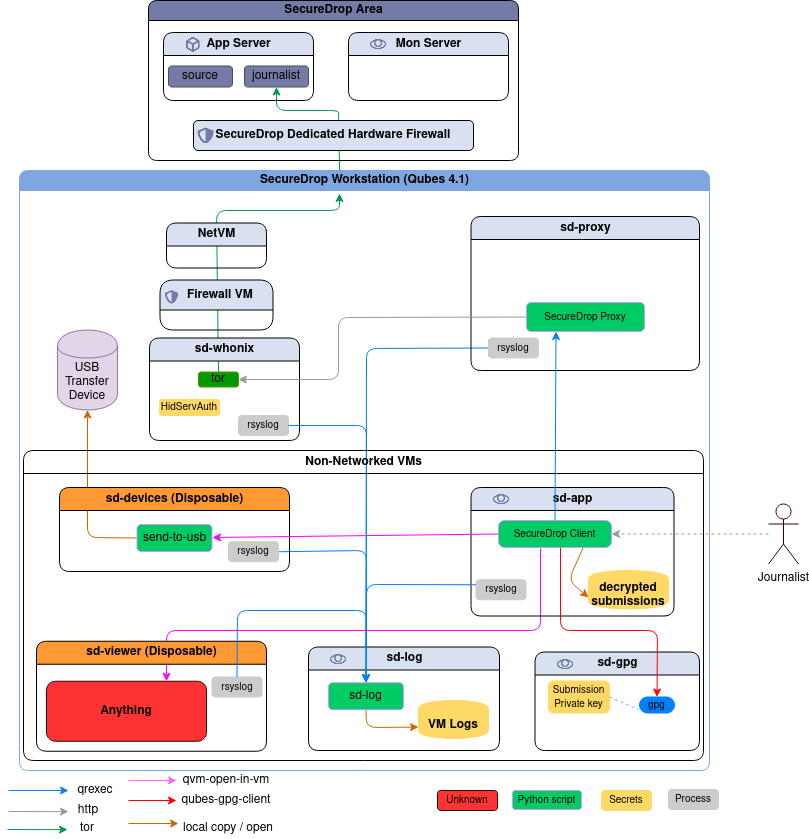
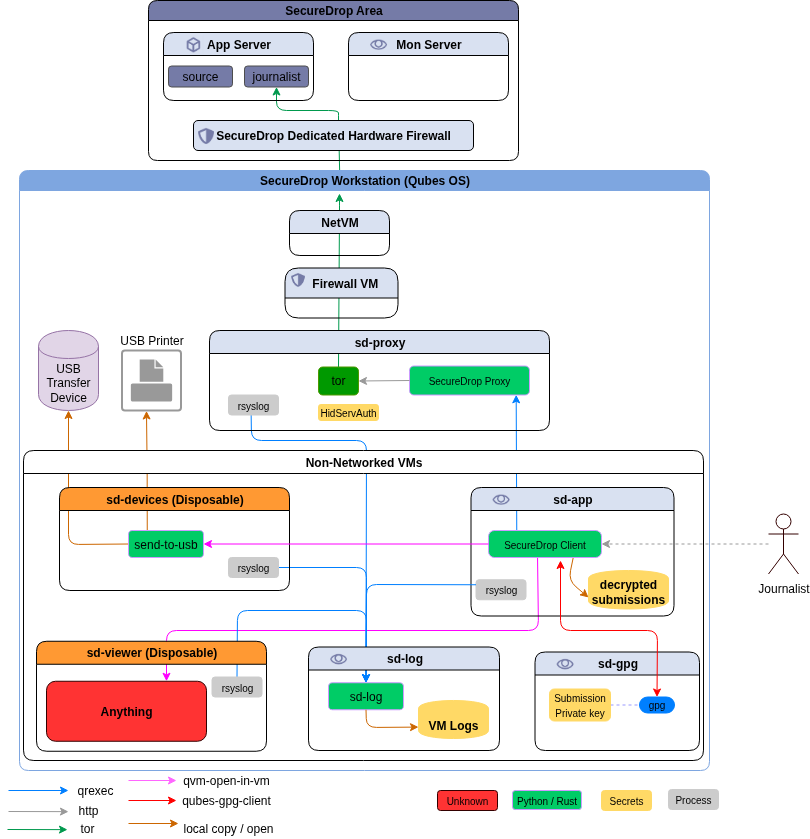
updated data flow diagram, updated README

diff --git a/README.md b/README.md
@@ -8,7 +8,7 @@
 
 This project aims to improve journalists' experience using SecureDrop, by moving the journalist workflow to a single computer running multiple virtual machines with [Qubes OS](https://qubes-os.org). Data is moved as automatically and transparently as possible between otherwise isolated VMs.
 
-We are currently piloting this project with a small number of news organizations; see [our blog post](https://securedrop.org/news/piloting-securedrop-workstation-qubes-os/) for additional information.
+We initially piloted this project with a small number of news organizations; see [our blog post](https://securedrop.org/news/piloting-securedrop-workstation-qubes-os/) for additional information. In July 2024, we transitioned SecureDrop Workstation to an open beta with [1.0.0 release](https://securedrop.org/news/securedrop-workstation-1_0_0-released/).
 
 1. [Detailed Rationale](#detailed-rationale)
 1. [Project Status](#project-status)
@@ -41,9 +41,9 @@ However, the Qubes OS approach is not without downsides. It stands and falls wit
 
 ## Project status
 
-We intend to bring the pilot program to a close in 2024, and move forward with general availability of SecureDrop Workstation following final updates based on the pilot participants' feedback and experience. The general availability version will be compatible with Qubes 4.2. Work is ongoing on 4.2 compatibility, and the mainline of this repo will be in flux and not suitable for production deployment until the work is completed and audited.
+SecureDrop Workstation is in open beta. We continue to move towards general availability of SecureDrop Workstation basd on users' feedback and experience. The current version is compatible with Qubes 4.2 and work is ongoing on 4.3 compatibility. The mainline of this repo will be in flux and not suitable for production deployment until the work is completed and audited.
 
-For now, if you want to preview SecureDrop Workstation's functionality we recommend following the installation instructions at [https://workstation.securedrop.org](https://workstation.securedrop.org), which will guide you through installing the latest stable version of SecureDrop Workstation on Qubes 4.1.
+For now, if you want to try SecureDrop Workstation's functionality we recommend following the installation instructions at [https://workstation.securedrop.org](https://workstation.securedrop.org), which will guide you through installing the latest stable version of SecureDrop Workstation on Qubes 4.2.
 
 ## Architecture
 
@@ -53,9 +53,8 @@ The current architecture replaces the *Journalist Workstation* and *Secure Viewi
 
 Currently, the following VMs are provisioned:
 
-- `sd-proxy` is where the SecureDrop proxy resides, which allows the non-networked `sd-app` vm to communicate with the *Journalist Interface* over Tor.
+- `sd-proxy` is where the SecureDrop proxy and the Tor gateway reside, which allows the non-networked `sd-app` vm to communicate with the *Journalist Interface* over Tor.
 - `sd-app` is a non-networked VM in which the *SecureDrop Client* runs used to store and explore submissions after they're unarchived and decrypted. Any files opened in this VM are opened in a disposable VM.
-- `sd-whonix` is the Tor gateway used to contact the journalist Tor hidden service. It's configured with the auth key for the hidden service. The default Qubes Whonix workstation uses the non-SecureDrop Whonix gateway, and thus won't be able to access the *Journalist Interface*.
 - `sd-gpg` is a Qubes split-gpg AppVM, used to hold submission decryption keys and do the actual submission crypto.
 - `sd-viewer` is an AppVM used as the template for the disposable VMs used for processing and opening files.
 - `sd-log` is an AppVM used for centralized logging - logs will appear in `~/QubesIncomingLogs` from each AppVM using the centralized logging service.
@@ -108,7 +107,7 @@ that contains component code for all of the packages we ship in individual VMs o
 
 Installing this project is involved. It requires an up-to-date Qubes 4.2 installation running on a machine with at least 16GB of RAM (32 GB recommended).
 
-**The project is currently in open beta. See our [blog post](https://securedrop.org/news/securedrop-workstation-1_0_0-released/) for more information. if you are interested in using SecureDrop Workstation, please reach out to us via the [support portal](https://docs.securedrop.org/en/stable/getting_support.html).**
+**The project is currently in open beta. See our [blog post](https://securedrop.org/news/securedrop-workstation-1_0_0-released/) for more information. if you are interested in using SecureDrop Workstation, please reach out to us via the [contact form](https://securedrop.org/help/).**
 
 To install a development version (using test data on the server and a test encryption key to decrypt it), in summary, you will need to:
 
@@ -162,6 +161,7 @@ The *Display VM* (sd-viewer) is disposable, does not have network access, and is
 
 #### What Compromise of the *Proxy VM* (`sd-proxy`) Can Achieve
 
+* An adversary can obtain the *Journalist Interface's* ATHS cookie.
 * An adversary can intercept and modify any and all communication between the Tor Browser and the SecureDrop *Journalist Interface*, including but not limited to:
   * Send messages to (but not view messages from) sources.
   * Delete messages and submissions.
@@ -169,16 +169,6 @@ The *Display VM* (sd-viewer) is disposable, does not have network access, and is
   * Access plaintext journalist passwords to the *Journalist Interface*.
 * An adversary can attempt to elevate their privileges and escape the VM.
 * An adversary can exhaust storage in the centralized logging VM (`sd-log`).
-
-#### What Compromise of the *Whonix Gateway VM* (`sd-whonix`) Can Achieve
-
-* An adversary can obtain the *Journalist Interface's* ATHS cookie.
-* An adversary can intercept and modify any and all communication between the Proxy VM and the SecureDrop *Journalist Interface*, including but not limited to:
-  * Send messages to sources (but not view messages from a source).
-  * Delete messages and submissions.
-  * Access encrypted messages and submissions.
-  * Access plaintext journalist passwords to the *Journalist Interface*.
-* An adversary can attempt to elevate their privileges and escape the VM.
 
 #### What compromise of the *App VM* (`sd-app`) can achieve
 The *App VM* is where securedrop-client resides. It does not have network access, and the Qubes split-gpg mechanism permits access to GPG keys from this VM.
